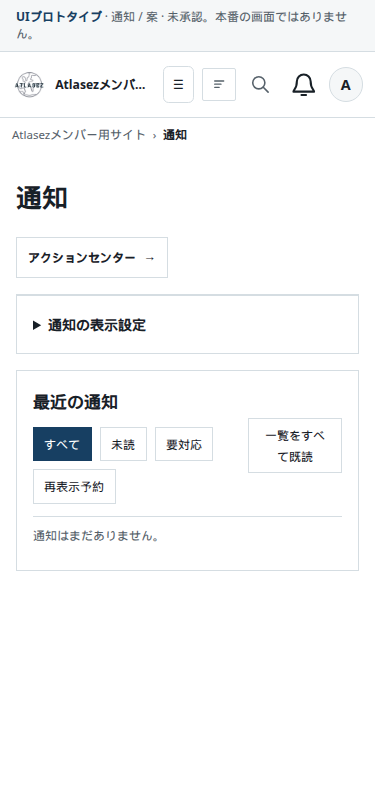
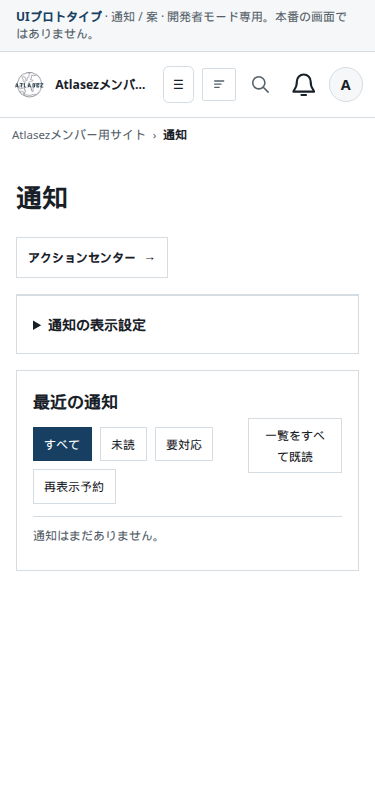
feat(admin): serve the UI review on a developer-only route
Publish the before/after prototype at /admin/ui-review-prototype/ behind the existing developer-mode gate. Production pages, shared components, and shared styles stay unchanged.

Changed region(s): [[0.44, 0.0, 0.9387, 0.0308], [0.0293, 0.0308, 0.2347, 0.0616]]

diff --git a/tests/unit/admin-ui-review-prototype-route.test.ts b/tests/unit/admin-ui-review-prototype-route.test.ts
@@ -1,0 +1,83 @@
+import { describe, expect, it, vi } from "vitest";
+import worker from "../../src/admin-worker";
+import { createAdminTestEnvironment } from "../helpers/admin-test-environment";
+
+describe("ADMIN UI review prototype route", () => {
+  it("requires developer-mode authorization for the page and every nested asset", async () => {
+    const { db, env, request } = createAdminTestEnvironment();
+    const assets = vi.spyOn(env.ASSETS, "fetch");
+    const now = new Date().toISOString();
+    db.prepare(
+      "INSERT INTO report_admin_permissions(email,subject) VALUES (?,'mathematics')",
+    ).run("developer-scope@example.test");
+    db.prepare(
+      "INSERT INTO atlasez_project_memberships(project_id,email,role,joined_at) VALUES ('atlas',?,'manager',?)",
+    ).run("developer-scope@example.test", now);
+    db.prepare(
+      "INSERT INTO report_admin_permissions(email,subject) VALUES (?,'mathematics')",
+    ).run("regular-staff@example.test");
+
+    for (const path of [
+      "/admin/ui-review-prototype/",
+      "/admin/ui-review-prototype/portal/after/",
+      "/admin/ui-review-prototype/action-center/after/",
+      "/admin/ui-review-prototype/_astro/review.css",
+    ]) {
+      const response = await request(path, "regular-staff@example.test");
+      expect(response.status, path).toBe(403);
+    }
+
+    const page = await request(
+      "/admin/ui-review-prototype/",
+      "developer-scope@example.test",
+    );
+    const proposal = await request(
+      "/admin/ui-review-prototype/portal/after/",
+      "developer-scope@example.test",
+    );
+    const asset = await request(
+      "/admin/ui-review-prototype/_astro/review.css",
+      "developer-scope@example.test",
+    );
+
+    expect(page.status).toBe(200);
+    expect(proposal.status).toBe(200);
+    expect(asset.status).toBe(200);
+    expect(page.headers.get("cache-control")).toContain("no-store");
+    expect(assets).toHaveBeenCalledTimes(3);
+  });
+
+  it("does not serve the prototype before authentication", async () => {
+    const { env } = createAdminTestEnvironment();
+    const assets = vi.spyOn(env.ASSETS, "fetch");
+    const response = await worker.fetch(
+      new Request("https://admin.atlasez.test/admin/ui-review-prototype/"),
+      env as never,
+    );
+
+    expect(response.status).toBe(401);
+    expect(assets).not.toHaveBeenCalled();
+  });
+
+  it("does not match adjacent routes or allow writes", async () => {
+    const fetch = vi.fn(async () => new Response("prototype fixture"));
+    const env = { ASSETS: { fetch } };
+    const adjacent = await worker.fetch(
+      new Request(
+        "https://admin.atlasez.test/admin/ui-review-prototype-private/",
+      ),
+      env as never,
+    );
+    const write = await worker.fetch(
+      new Request("https://admin.atlasez.test/admin/ui-review-prototype/", {
+        method: "POST",
+      }),
+      env as never,
+    );
+
+    expect(adjacent.status).toBe(404);
+    expect(write.status).toBe(405);
+    expect(write.headers.get("allow")).toBe("GET, HEAD");
+    expect(fetch).not.toHaveBeenCalled();
+  });
+});

diff --git a/src/admin-worker.ts b/src/admin-worker.ts
@@ -23446,6 +23446,21 @@ async function handleAdminRequest(
     if (isResponse(scope)) return scope;
     return fetchAdminAsset(request, env);
   }
+  // Before/after ADMIN UI review. Isolated static files, same developer-mode
+  // gate as the other prototypes. Production pages do not use this output.
+  if (
+    url.pathname === "/admin/ui-review-prototype" ||
+    url.pathname.startsWith("/admin/ui-review-prototype/")
+  ) {
+    if (request.method !== "GET" && request.method !== "HEAD")
+      return new Response("Method not allowed", {
+        status: 405,
+        headers: { Allow: "GET, HEAD" },
+      });
+    const scope = await getDeveloperScope(request, env);
+    if (isResponse(scope)) return scope;
+    return fetchAdminAsset(request, env);
+  }
   if (
     url.pathname === "/api/onboarding/atlas-writing-practice" &&
     request.method === "POST"

diff --git a/prototypes/admin-ui-review/src/paths.ts b/prototypes/admin-ui-review/src/paths.ts
@@ -1,0 +1,6 @@
+/** Prefix in-prototype links with Astro's base so the deployed route stays isolated. */
+export const prototypePath = (path: string) => {
+  if (path.startsWith("#")) return path;
+  const base = import.meta.env.BASE_URL;
+  return `${base}${path.replace(/^\/+/, "")}`;
+};

diff --git a/prototypes/admin-ui-review/README.md b/prototypes/admin-ui-review/README.md
@@ -1,6 +1,18 @@
 # ADMIN operations UI prototype
 
-Static before/after prototype for the ADMIN portal and notifications screens. It is not wired into the ADMIN Worker, D1, or the production pages. Fonts, colors, and control styles follow the current light theme in `src/styles/tokens.css`.
+Static before/after prototype for the ADMIN portal, notifications, and action-center dialog. The ADMIN production build copies it to `dist/admin/ui-review-prototype/` and the Worker serves that directory at `/admin/ui-review-prototype/` only after developer-mode authorization. It does not change production pages, shared components, shared styles, or D1. Fonts, colors, and control styles follow the current light theme in `src/styles/tokens.css`.
+
+Deployed URLs, for a developer-mode account:
+
+| Screen                  | URL                                                                         |
+| ----------------------- | --------------------------------------------------------------------------- |
+| Index                   | `https://admin.atlasez.org/admin/ui-review-prototype/`                      |
+| Portal, current         | `https://admin.atlasez.org/admin/ui-review-prototype/portal/before/`        |
+| Portal, proposal        | `https://admin.atlasez.org/admin/ui-review-prototype/portal/after/`         |
+| Notifications, current  | `https://admin.atlasez.org/admin/ui-review-prototype/notifications/before/` |
+| Notifications, proposal | `https://admin.atlasez.org/admin/ui-review-prototype/notifications/after/`  |
+| Action center, current  | `https://admin.atlasez.org/admin/ui-review-prototype/action-center/before/` |
+| Action center, proposal | `https://admin.atlasez.org/admin/ui-review-prototype/action-center/after/`  |
 
 ## View
 
